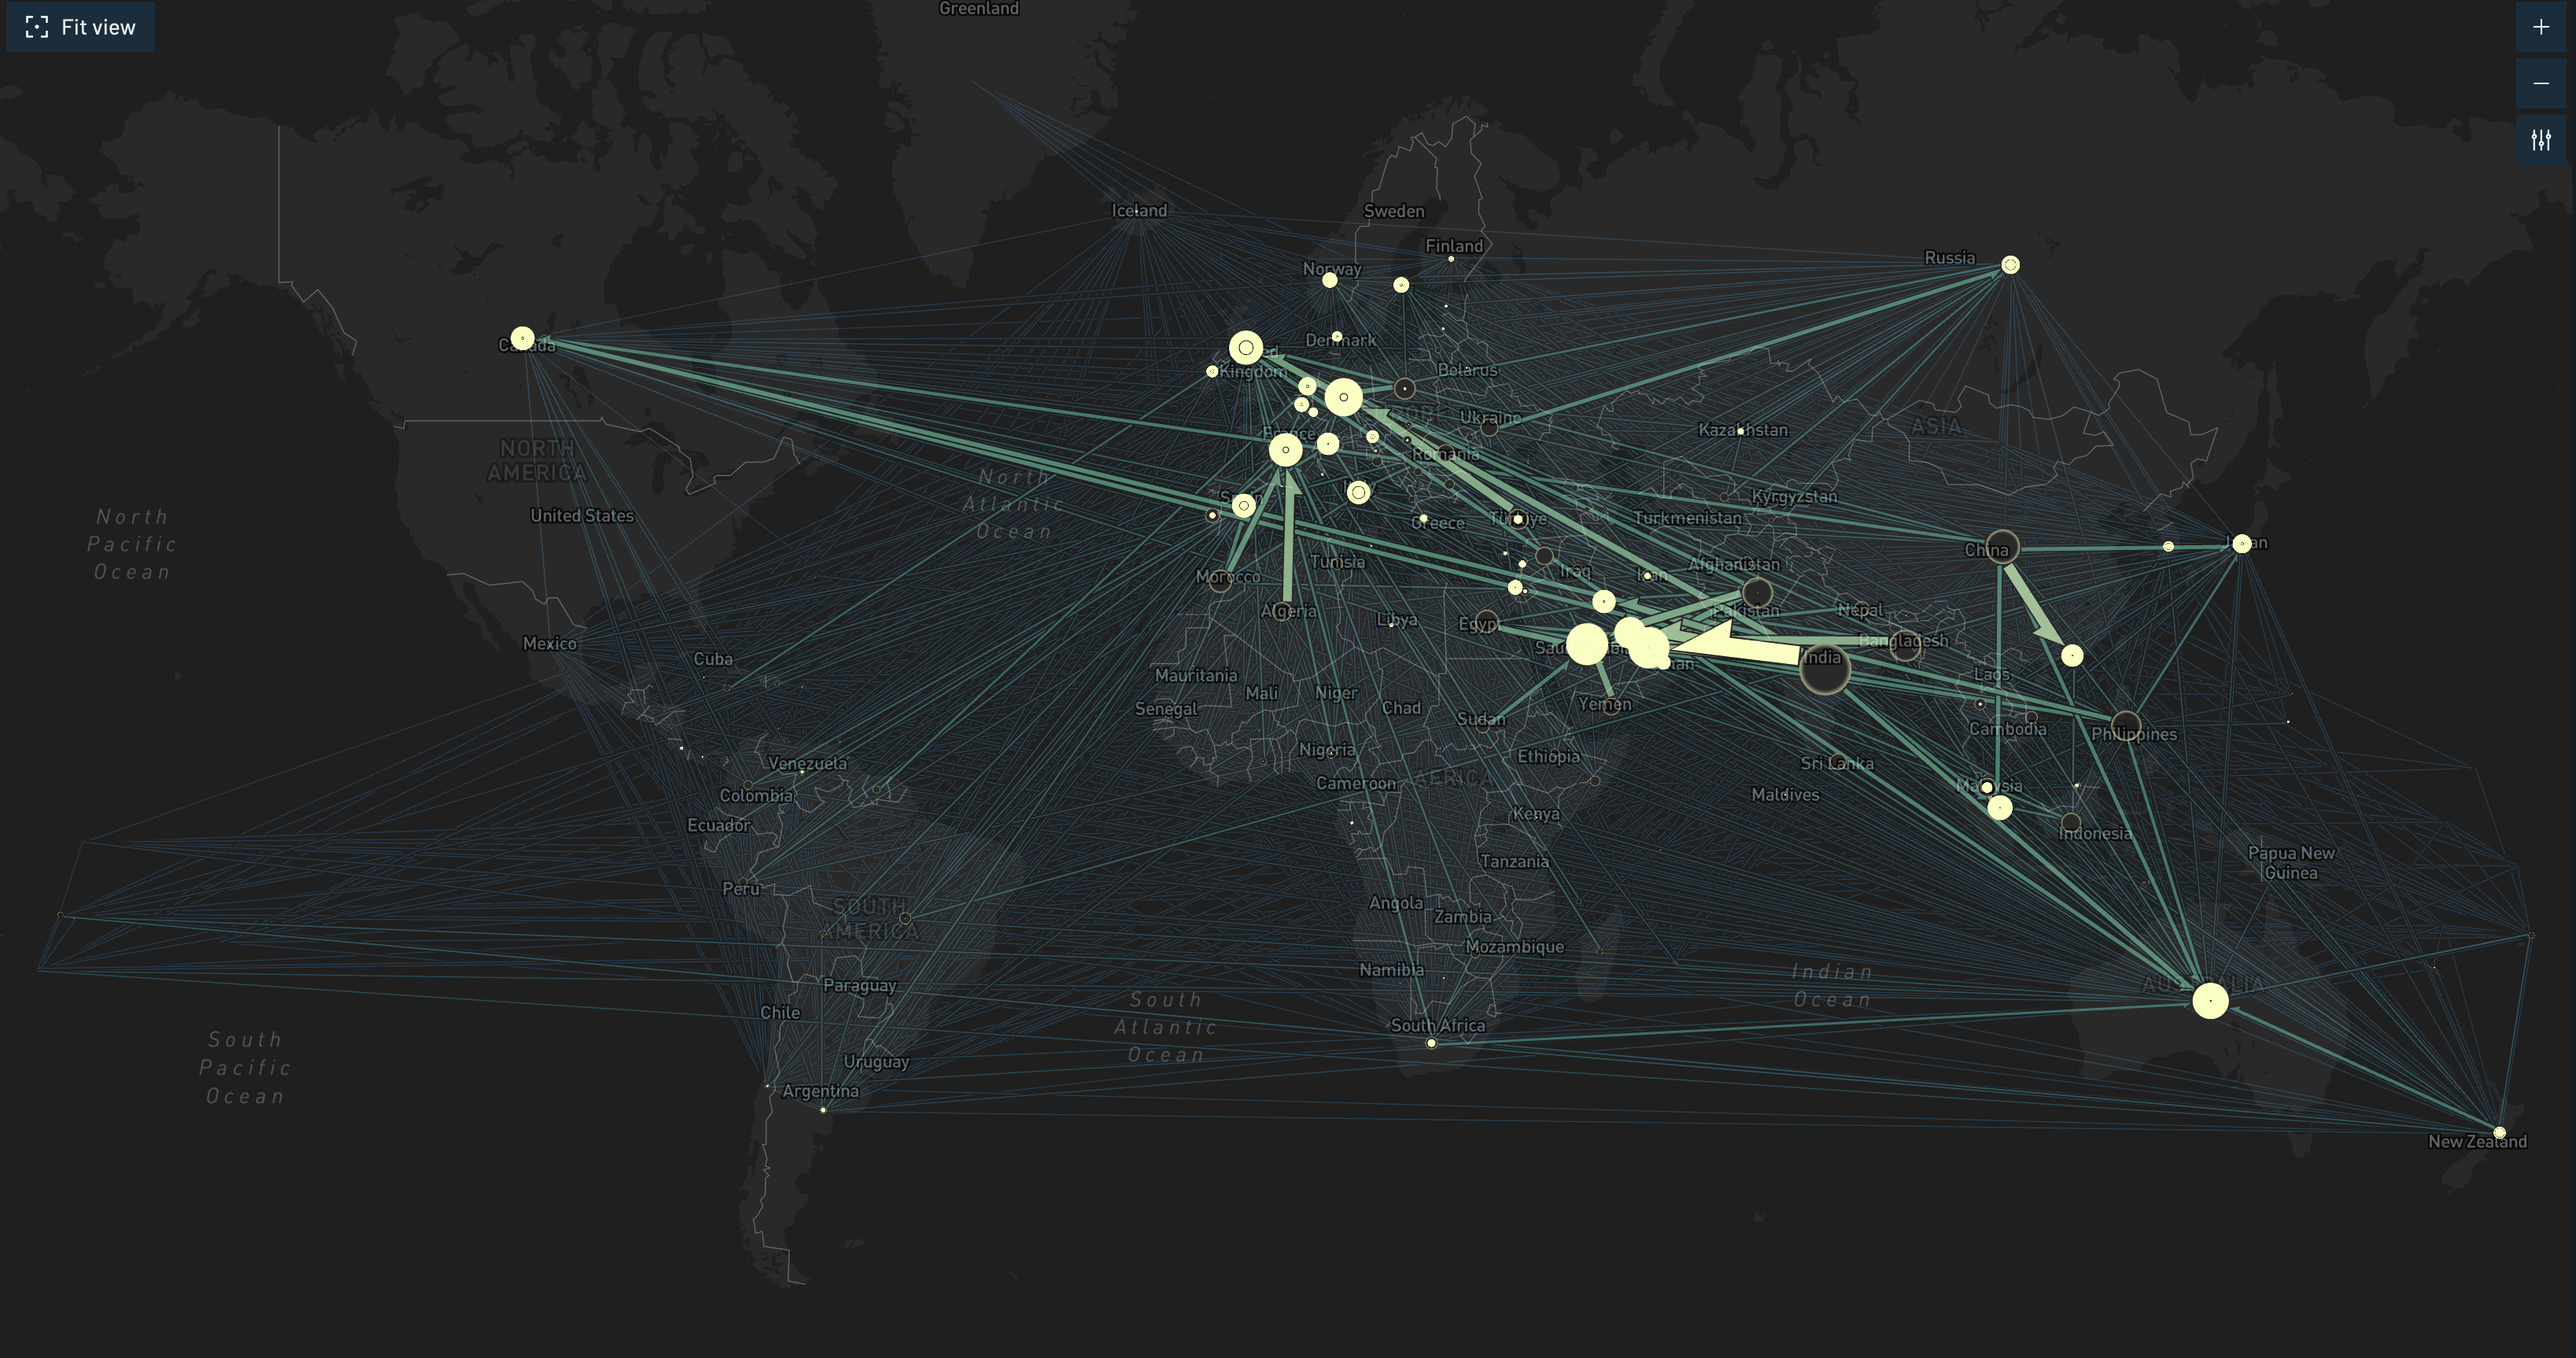
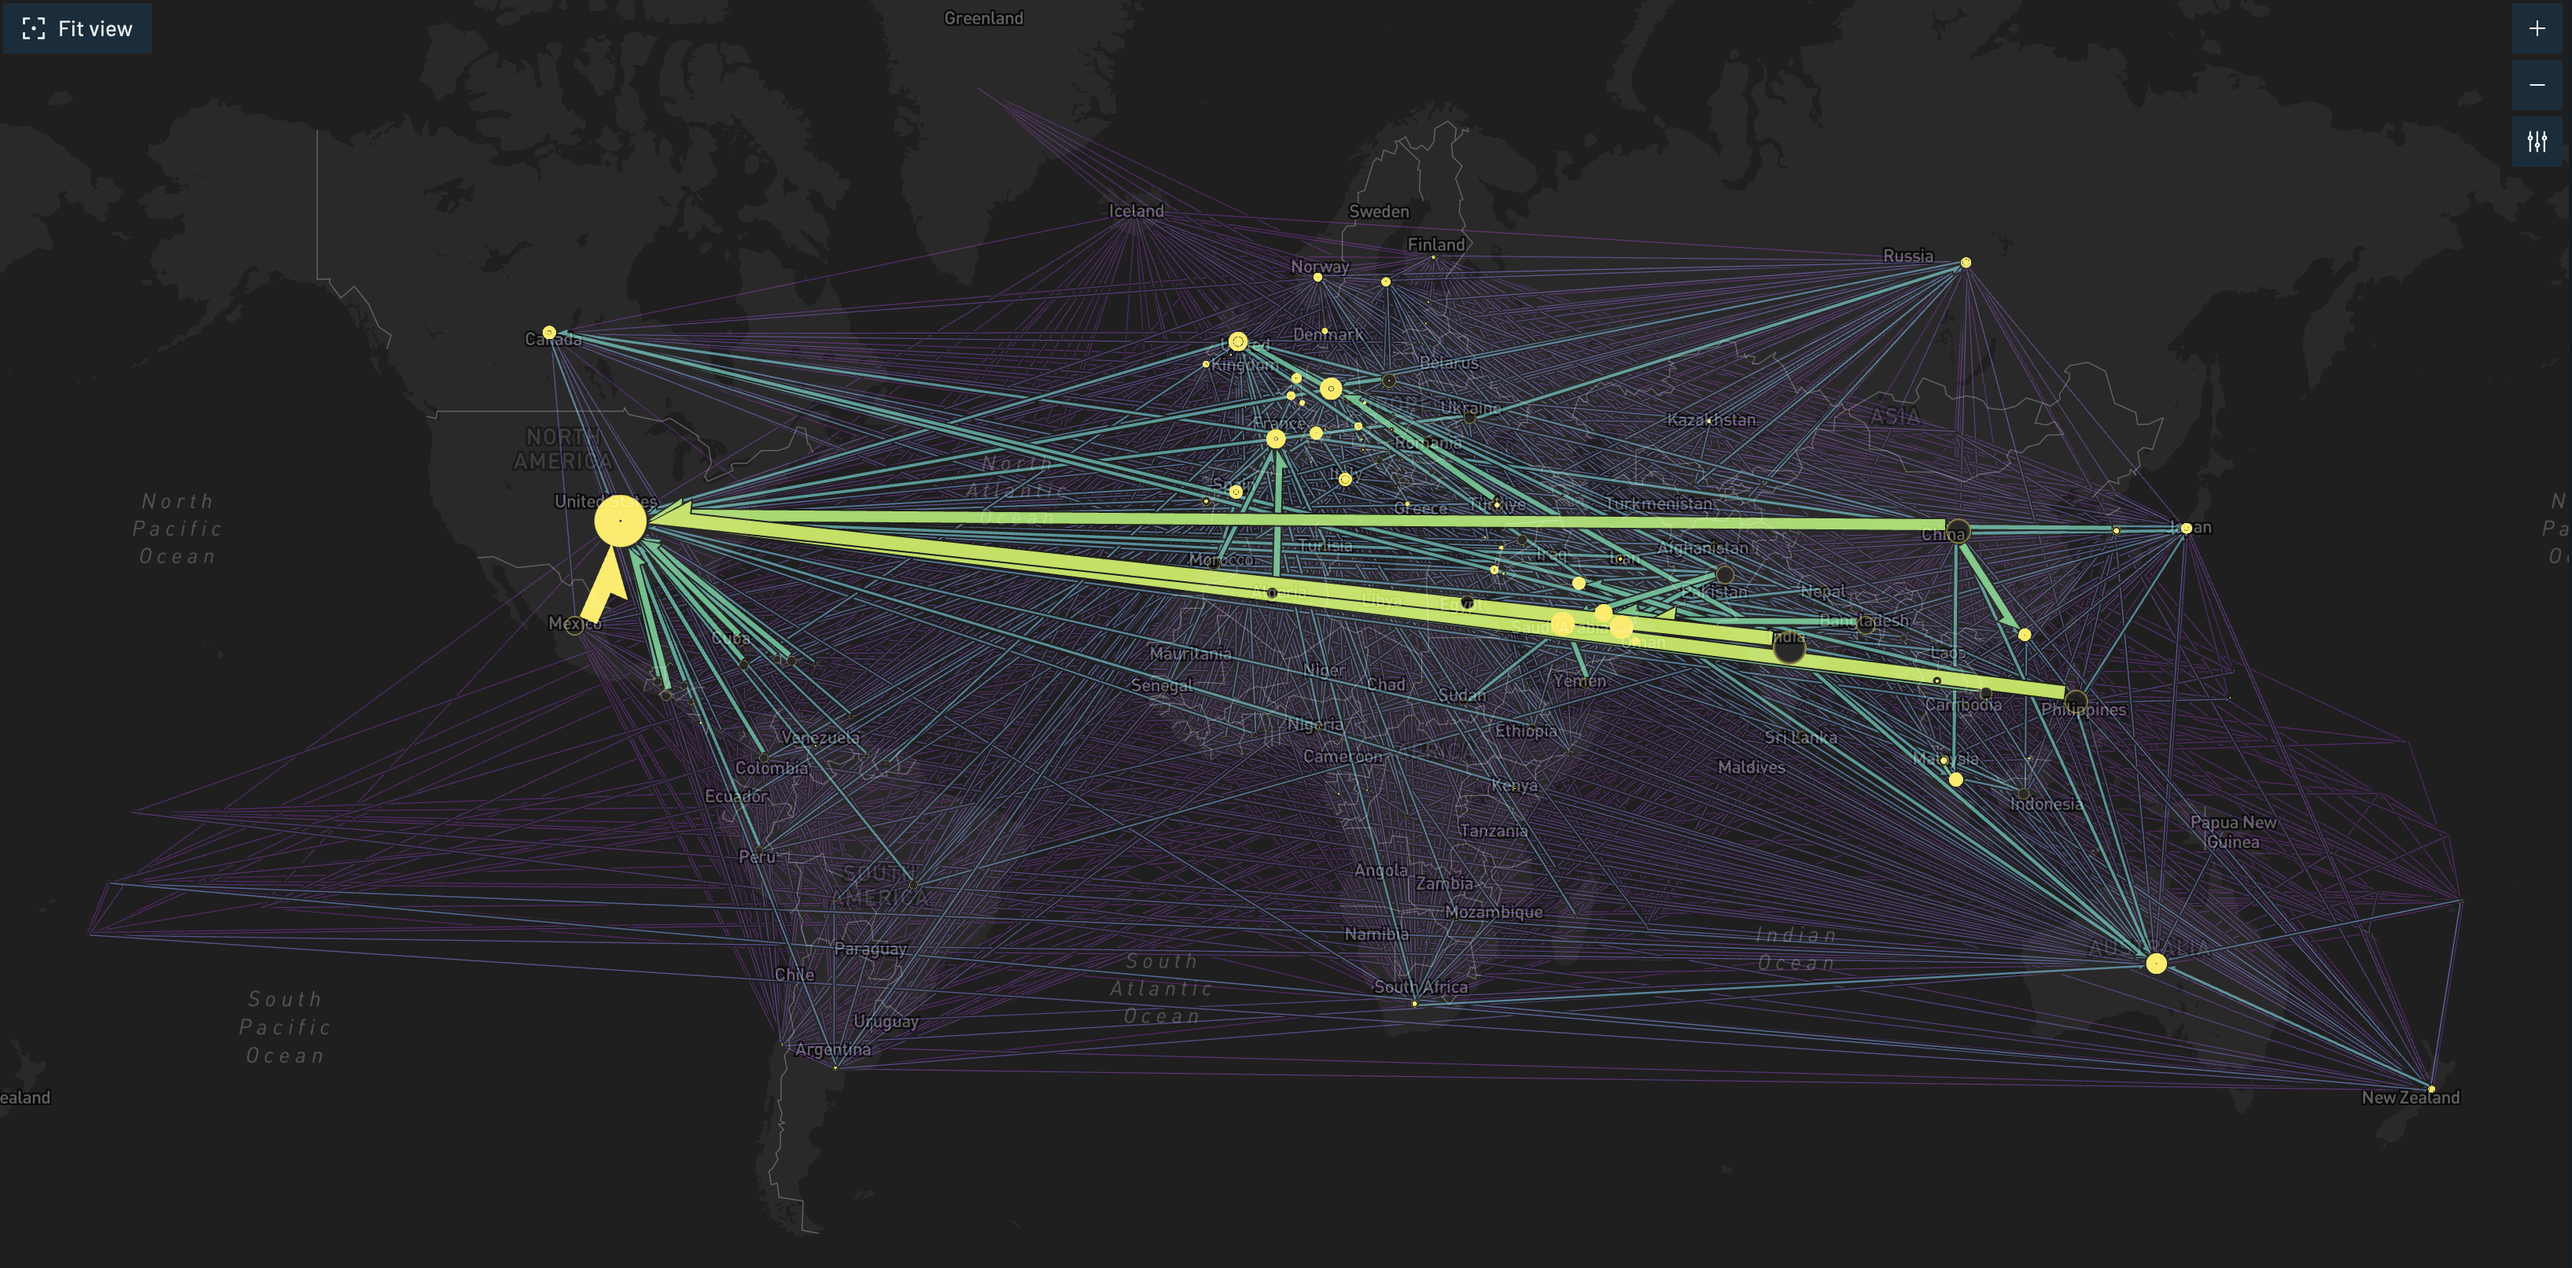
update

diff --git a/src/components/notebook/SankeyCharts.jsx b/src/components/notebook/SankeyCharts.jsx
@@ -11,15 +11,22 @@ const nodesOrder = [
   "Low income",
 ];
 
+const regionsOrder = [
+  "East Asia & Pacific",
+  "South Asia",
+  "Middle East & North Africa",
+  "Sub-Saharan Africa",
+  "Europe & Central Asia",
+  "North America",
+  "Latin America & Caribbean",
+];
+
 const sankeyProps = {
   valueFormat: ".2s",
   margin: {
     top: 10,
     bottom: 10,
   },
-  // colors: {
-  //   scheme: "accent",
-  // },
   colors: (node) => {
     if (node.id.includes("High income")) {
       return colorScheme[0];
@@ -36,6 +43,48 @@ const sankeyProps = {
   },
   sort: (a, b) => {
     return nodesOrder.indexOf(a.id) - nodesOrder.indexOf(b.id);
+  },
+  enableLinkGradient: true,
+  theme: {
+    tooltip: {
+      container: {
+        fontSize: 10,
+      },
+    },
+  },
+};
+
+const sankeyRegionProps = {
+  valueFormat: ".2s",
+  margin: {
+    top: 10,
+    bottom: 10,
+  },
+  colors: (node) => {
+    if (node.id.includes("East Asia & Pacific")) {
+      return colorScheme[0];
+    }
+    if (node.id.includes("South Asia")) {
+      return colorScheme[1];
+    }
+    if (node.id.includes("Middle East & North Africa")) {
+      return colorScheme[2];
+    }
+    if (node.id.includes("Sub-Saharan Africa")) {
+      return colorScheme[3];
+    }
+    if (node.id.includes("Europe & Central Asia")) {
+      return colorScheme[4];
+    }
+    if (node.id.includes("North America")) {
+      return colorScheme[5];
+    }
+    if (node.id.includes("Latin America & Caribbean")) {
+      return colorScheme[6];
+    }
+  },
+  sort: (a, b) => {
+    return regionsOrder.indexOf(a.id) - regionsOrder.indexOf(b.id);
   },
   enableLinkGradient: true,
   theme: {
@@ -86,8 +135,18 @@ function computeIncomeData(data) {
   );
 }
 
+function computeRegionData(data) {
+  return computeSankeyData(
+    data,
+    (d) => d.destination_region,
+    (d) => d.origin_region,
+    (d) => d.sim_remittances_with,
+    "->",
+  );
+}
+
 const SankeyCharts = ({ ...props }) => {
-  const { migAndRemByIncome, migAndRemAvgYear } = props;
+  const { migAndRemByIncome, migAndRemByRegion, migAndRemAvgYear } = props;
 
   return (
     <div className="flex flex-col items-center gap-4 w-full pt-10">
@@ -157,6 +216,13 @@ const SankeyCharts = ({ ...props }) => {
 
       <div className="text-sm bg-gray-300">
         [Perform grouping by geographical grouping, continent etc.?]
+      </div>
+
+      <div className="w-xl h-[800px]">
+        <ResponsiveSankey
+          data={computeRegionData(migAndRemByRegion)}
+          {...sankeyRegionProps}
+        />
       </div>
 
       <div className="w-xl text-sm">

diff --git a/src/components/notebook/Notebook.jsx b/src/components/notebook/Notebook.jsx
@@ -57,21 +57,12 @@ const Notebook = () => {
   });
 
   const { data: migAndRemByIncome } = useSql({
-    query: /* sql */ `
-      -- Group by income level
-      SELECT
-        origin_group,
-        destination_group,
+    query: migAndRemByGroupQuery("group"),
+    enabled: Boolean(migAndRemAvgYearReady),
+  });
 
-        sum(n_migrants) AS n_migrants,
-        sum(sim_remittances_with) AS sim_remittances_with,
-        sum(sim_remittances_without) AS sim_remittances_without,
-        sum(disaster_remittances) AS disaster_remittances,
-
-      FROM mig_and_rem_avg_year
-
-      GROUP BY (origin_group, destination_group)
-    `,
+  const { data: migAndRemByRegion } = useSql({
+    query: migAndRemByGroupQuery("region"),
     enabled: Boolean(migAndRemAvgYearReady),
   });
 
@@ -105,6 +96,7 @@ const Notebook = () => {
       {migAndRemByIncome && migAndRemAvgYear && (
         <SankeyCharts
           migAndRemByIncome={migAndRemByIncome.toArray()}
+          migAndRemByRegion={migAndRemByRegion.toArray()}
           migAndRemAvgYear={migAndRemAvgYear.toArray()}
         />
       )}
@@ -163,6 +155,23 @@ function migAndRemByCountryQuery(group) {
 
     LEFT JOIN countries_geo
     ON step1.${group} = countries_geo.country
+  `;
+}
+
+function migAndRemByGroupQuery(group) {
+  return /* sql */ `
+    SELECT
+      origin_${group},
+      destination_${group},
+
+      sum(n_migrants) AS n_migrants,
+      sum(sim_remittances_with) AS sim_remittances_with,
+      sum(sim_remittances_without) AS sim_remittances_without,
+      sum(disaster_remittances) AS disaster_remittances,
+
+    FROM mig_and_rem_avg_year
+
+    GROUP BY (origin_${group}, destination_${group})
   `;
 }
 

diff --git a/src/components/notebook/GeoCharts.jsx b/src/components/notebook/GeoCharts.jsx
@@ -13,8 +13,6 @@ const incomeGroupColor = {
 const GeoCharts = ({ ...props }) => {
   const { migAndRemByOrigin, migAndRemByDestination } = props;
 
-  console.log(migAndRemByOrigin);
-
   const containerRef1 = useRef();
   const containerRef2 = useRef();
   const containerRef3 = useRef();
